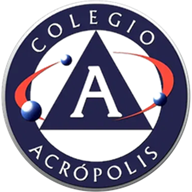
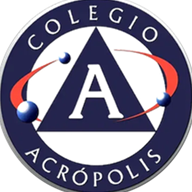
fix(portada): quitar el borde del emblema y la W naranja en el pie
El aro que se veia era el borde de 3 px que puse para tapar el filo blanco, mas
el canto gris que trae el propio archivo. Se elimina el borde y el recorte se
ajusta al circulo interior del escudo, de modo que el borde visible es el azul
del propio emblema, sin halo ni marco.

En el pie, la W pasa a naranja y el nombre sube a 19 px, que es el tamano a
partir del cual el contraste exigido baja a 3:1; el naranja da 4,07 sobre el azul
del pie.

diff --git a/app/page.tsx b/app/page.tsx
@@ -258,7 +258,7 @@ export default function Portada() {
           <a href="/" className="flex items-center gap-4" aria-label="W-SIMCE, inicio">
             {/* la escala 1.06 saca el filo blanco del archivo: el anillo del
                 escudo llega al borde del círculo y no queda halo */}
-            <span className="block h-16 w-16 shrink-0 overflow-hidden rounded-full border-[3px] border-marca">
+            <span className="block h-16 w-16 shrink-0 overflow-hidden rounded-full">
               <Emblema src="/emblema-192.png" className="h-full w-full object-cover" />
             </span>
             <span className="flex items-baseline gap-3">
@@ -746,11 +746,11 @@ export default function Portada() {
             {/* identidad */}
             <div>
               <div className="flex items-center gap-3">
-                <span className="block h-16 w-16 shrink-0 overflow-hidden rounded-full border-[3px] border-marca-oscuro">
+                <span className="block h-16 w-16 shrink-0 overflow-hidden rounded-full">
                   <Emblema src="/emblema-192.png" className="h-full w-full rounded-full object-cover" />
                 </span>
                 <div>
-                  <p className="text-base font-semibold tracking-tight text-white">W-SIMCE</p>
+                  <p className="text-[19px] font-semibold tracking-[-0.01em] text-white"><span className="text-acento">W</span>-SIMCE</p>
                   <p className="text-xs text-white/60">Colegio Acrópolis</p>
                 </div>
               </div>
